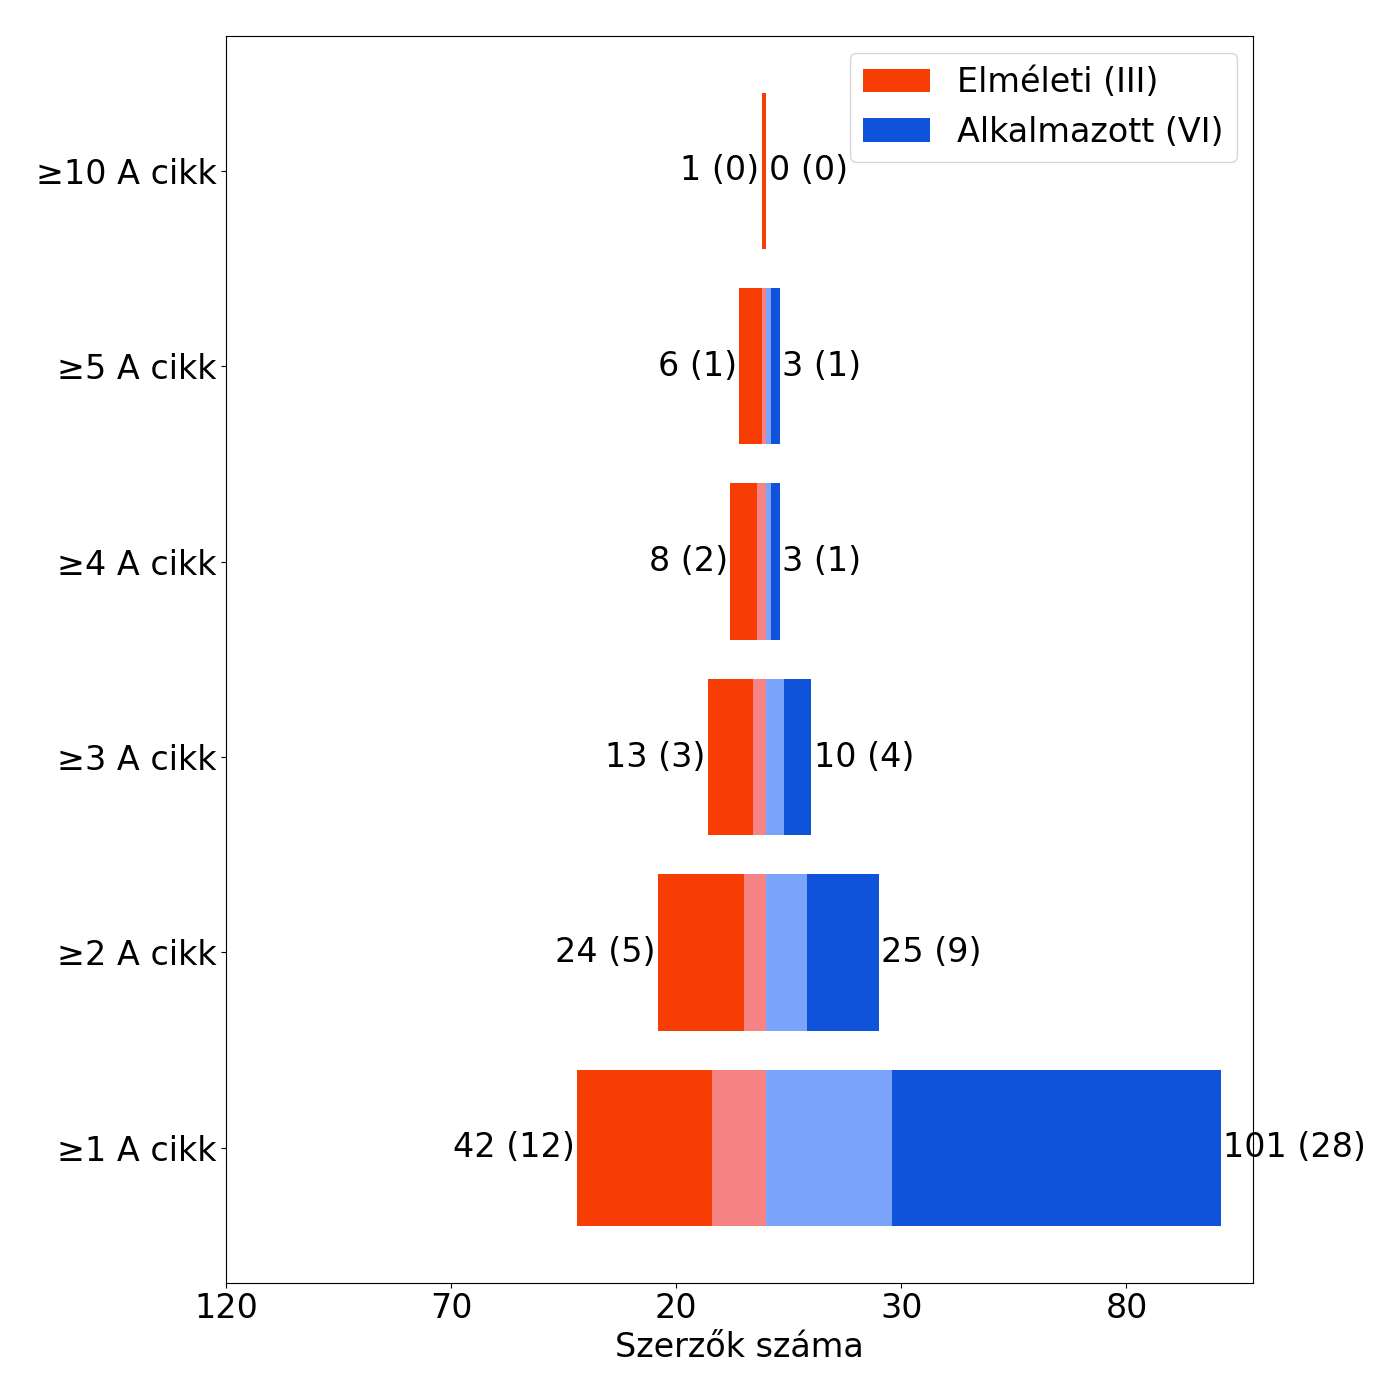
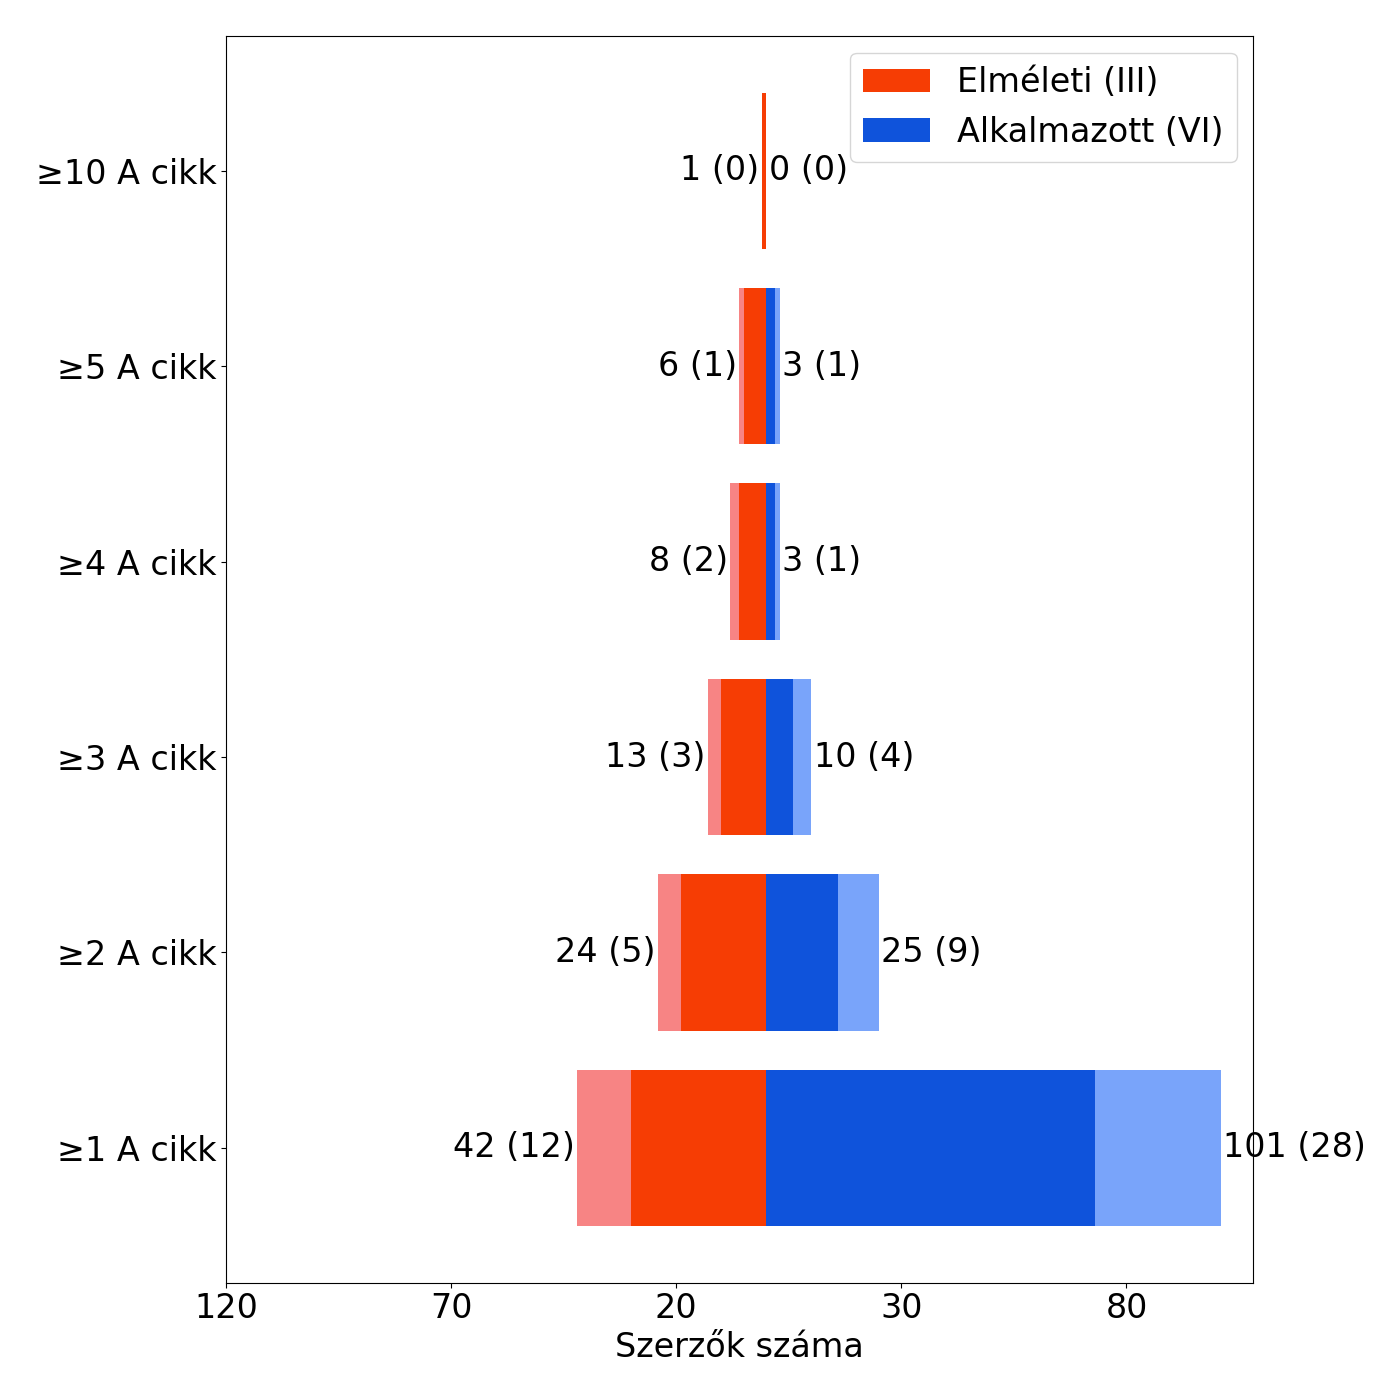
minoir

diff --git a/generate_chart.py b/generate_chart.py
@@ -352,18 +352,24 @@ def plot_author_pyramid():
 
             # Piramis plot (mirrored horizontal bars)
             y = np.arange(len(thresholds))
-            left_inactive = -np.array(theory_counts_inactive)   # bal oldal negatív értékek
-            right_inactive = np.array(practical_counts_inactive)
-            left = -np.array(theory_counts)   # bal oldal negatív értékek
-            right = np.array(practical_counts)
+            # számítsuk ki az aktív és inaktív darabszámokat
+            theory_total = np.array(theory_counts)
+            theory_inactive = np.array(theory_counts_inactive)
+            theory_active = theory_total - theory_inactive
+
+            practical_total = np.array(practical_counts)
+            practical_inactive = np.array(practical_counts_inactive)
+            practical_active = practical_total - practical_inactive
 
             fig, ax = plt.subplots(figsize=(14, 14))
-            #plt.rcParams.update({'font.size': 12})
-            ax.barh(y, left, color="#f63d04", label="Elméleti (III)")
-            ax.barh(y, right, color="#0f53db", label="Alkalmazott (VI)")
+            # Rajzolás sorrendje: először a külső (inaktív, világos) szegmens, majd a belső (aktív, sötét)
+            # Bal oldal (negatív irány): a külső inaktív rész megy -total -> -active, majd a belső aktív -active -> 0
+            ax.barh(y, theory_inactive, left=-theory_total, color="#F78484")  # külső, világos
+            ax.barh(y, theory_active, left=-theory_active, color="#f63d04", label="Elméleti (III)")  # belső, sötét
 
-            ax.barh(y, left_inactive, color="#F78484")
-            ax.barh(y, right_inactive, color="#79a4fa")
+            # Jobb oldal (pozitív irány): belső aktív 0 -> active, külső inaktív active -> total
+            ax.barh(y, practical_active, left=0, color="#0f53db", label="Alkalmazott (VI)")  # belső, sötét
+            ax.barh(y, practical_inactive, left=practical_active, color="#79a4fa")  # külső, világos
 
             # Tengelyek, címkék
             ax.set_yticks(y)
